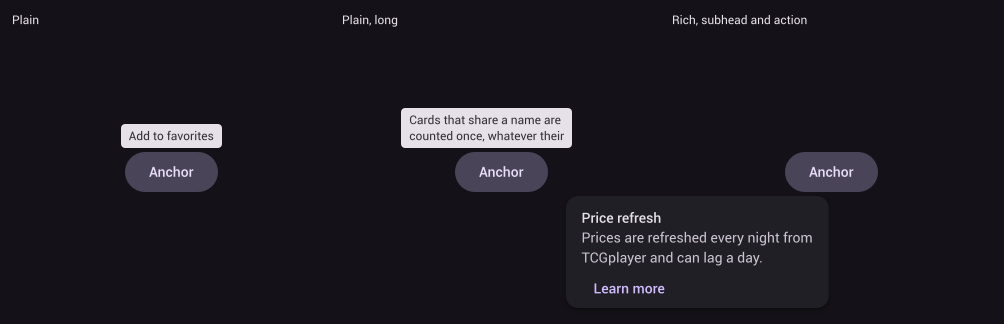
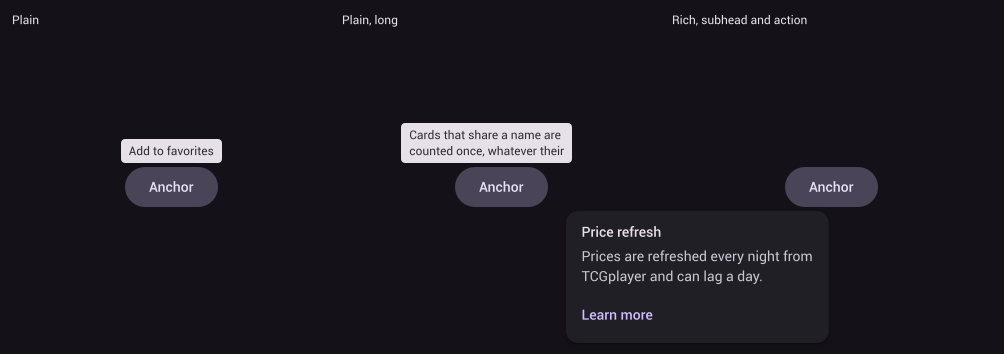
Android rich tooltip follows the specification layout and the level 2 shade
The rich tooltip was 20 dp shorter than the specification: the subhead sat 4 dp too close to the text, the action row lacked the 8 dp below the text and the action label started 12 dp too far in. The spacing now follows the M3 rich tooltip (12 above, 16 at the sides with the action label on the text edge, 8 below), the sheet cell is taller so the tooltip is not flipped above its anchor, and the reference CSS uses the level 2 shade the specification names for a rich tooltip (it had the level 1 values). The reference crops are re-captured.

diff --git a/scripts/material/gallery.html b/scripts/material/gallery.html
@@ -95,7 +95,7 @@ html.notext svg.i { opacity: 0; }
 .tooltip { box-sizing: border-box; display: inline-block; padding: 4px 8px; min-height: 24px; border-radius: 4px; background: var(--md-sys-color-inverse-surface);
   color: var(--md-sys-color-inverse-on-surface); font: 400 12px/16px Roboto; letter-spacing: 0; }
 .rich-tooltip { box-sizing: border-box; width: 312px; padding: 12px 16px 8px; border-radius: 12px; background: var(--md-sys-color-surface-container);
-  box-shadow: 0 1px 3px 1px rgba(0,0,0,.15), 0 1px 2px 0 rgba(0,0,0,.3); }
+  box-shadow: 0 1px 2px 0 rgba(0,0,0,.3), 0 2px 6px 2px rgba(0,0,0,.15); }
 .rich-tooltip .t { font: 500 14px/20px Roboto; letter-spacing: 0; color: var(--md-sys-color-on-surface-variant); }
 .rich-tooltip .b { font: 400 14px/20px Roboto; letter-spacing: 0; color: var(--md-sys-color-on-surface-variant); padding: 4px 0 8px; }
 .rich-tooltip .a { font: 500 14px/20px Roboto; color: var(--md-sys-color-primary); padding: 10px 12px; margin: 0 -12px; }

diff --git a/scripts/material/sheets.py b/scripts/material/sheets.py
@@ -66,7 +66,7 @@ SHEETS["search_bar"] = {"columns": 3, "cell_w": 340, "cell_h": 70, "cells": [
 SHEETS["badge"] = {"columns": 6, "cell_w": 100, "cell_h": 56, "cells": [
     "badge-dot", "badge-3", "badge-99", "badge-999", "badge-icon-dot", "badge-icon-3"]}
 
-SHEETS["tooltip"] = {"columns": 3, "cell_w": 320, "cell_h": 280, "full": True, "at": [(110, 92), (0, 0), (-105, 164)], "cells": [
+SHEETS["tooltip"] = {"columns": 3, "cell_w": 320, "cell_h": 310, "full": True, "at": [(110, 107), (0, 0), (-107, 179)], "cells": [
     "tooltip-plain", None, "tooltip-rich"]}
 
 SHEETS["slider"] = {"columns": 5, "cell_w": 220, "cell_h": 40, "cells": [
